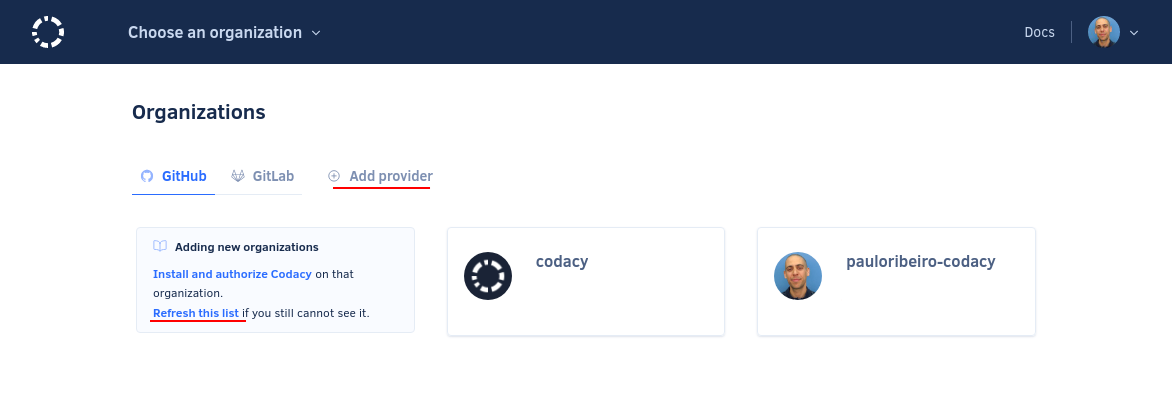
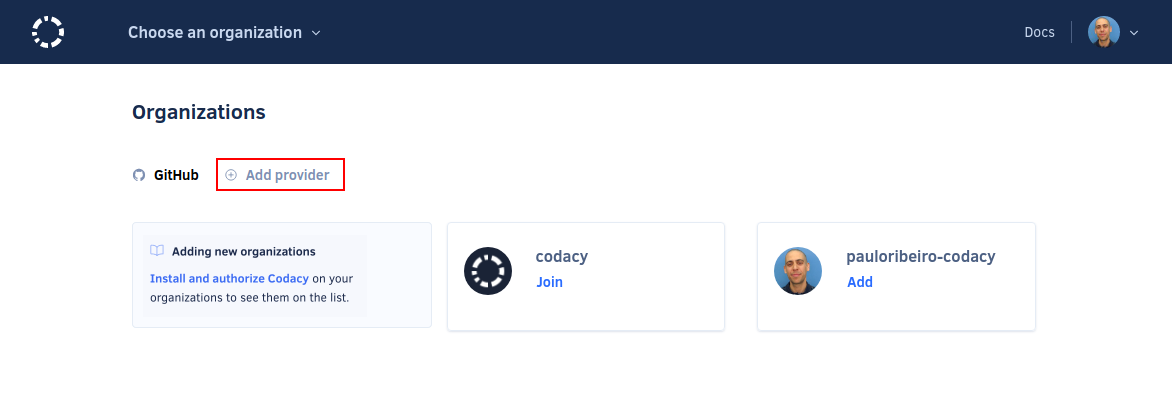
feat: Remove mention of refresh list button

diff --git a/docs/faq/troubleshooting/why-cant-i-see-my-organization.md b/docs/faq/troubleshooting/why-cant-i-see-my-organization.md
@@ -4,15 +4,13 @@ description: Try these steps if you don't see your organization when adding your
 
 # Why can't I see my organization?
 
-If you can't [add your organization to Codacy](../../organizations/what-are-organizations.md#adding-an-organization) because it doesn't appear on the Organizations page, please try re-adding your Git provider or refreshing the list of organizations by clicking **Add provider** or **Refresh this list** on the Organizations page:
+If you can't [add your organization to Codacy](../../organizations/what-are-organizations.md#adding-an-organization) because it doesn't appear on the Organizations page, please try re-adding your Git provider by clicking **Add provider** on the Organizations page:
 
 ![Refreshing the list of organizations](images/organization-refresh-list.png)
 
-If you still can't see your organization on Codacy, follow the steps below and **refresh the list of organizations after each step** to check if the issue is solved:
+If you still can't see your organization on Codacy, follow the steps below to check if the issue is solved:
 
-1.  Re-add your Git provider or refresh the list of organizations on Codacy by clicking **Add provider** or **Refresh this list** on the Organizations page:
-
-    ![Refreshing the list of organizations](images/organization-refresh-list.png)
+1.  Re-add your Git provider by clicking **Add provider** on the Organizations page.
 
 1.  Make sure that you have access to the organization on the Git provider using the account that you used to log in on Codacy.
 
